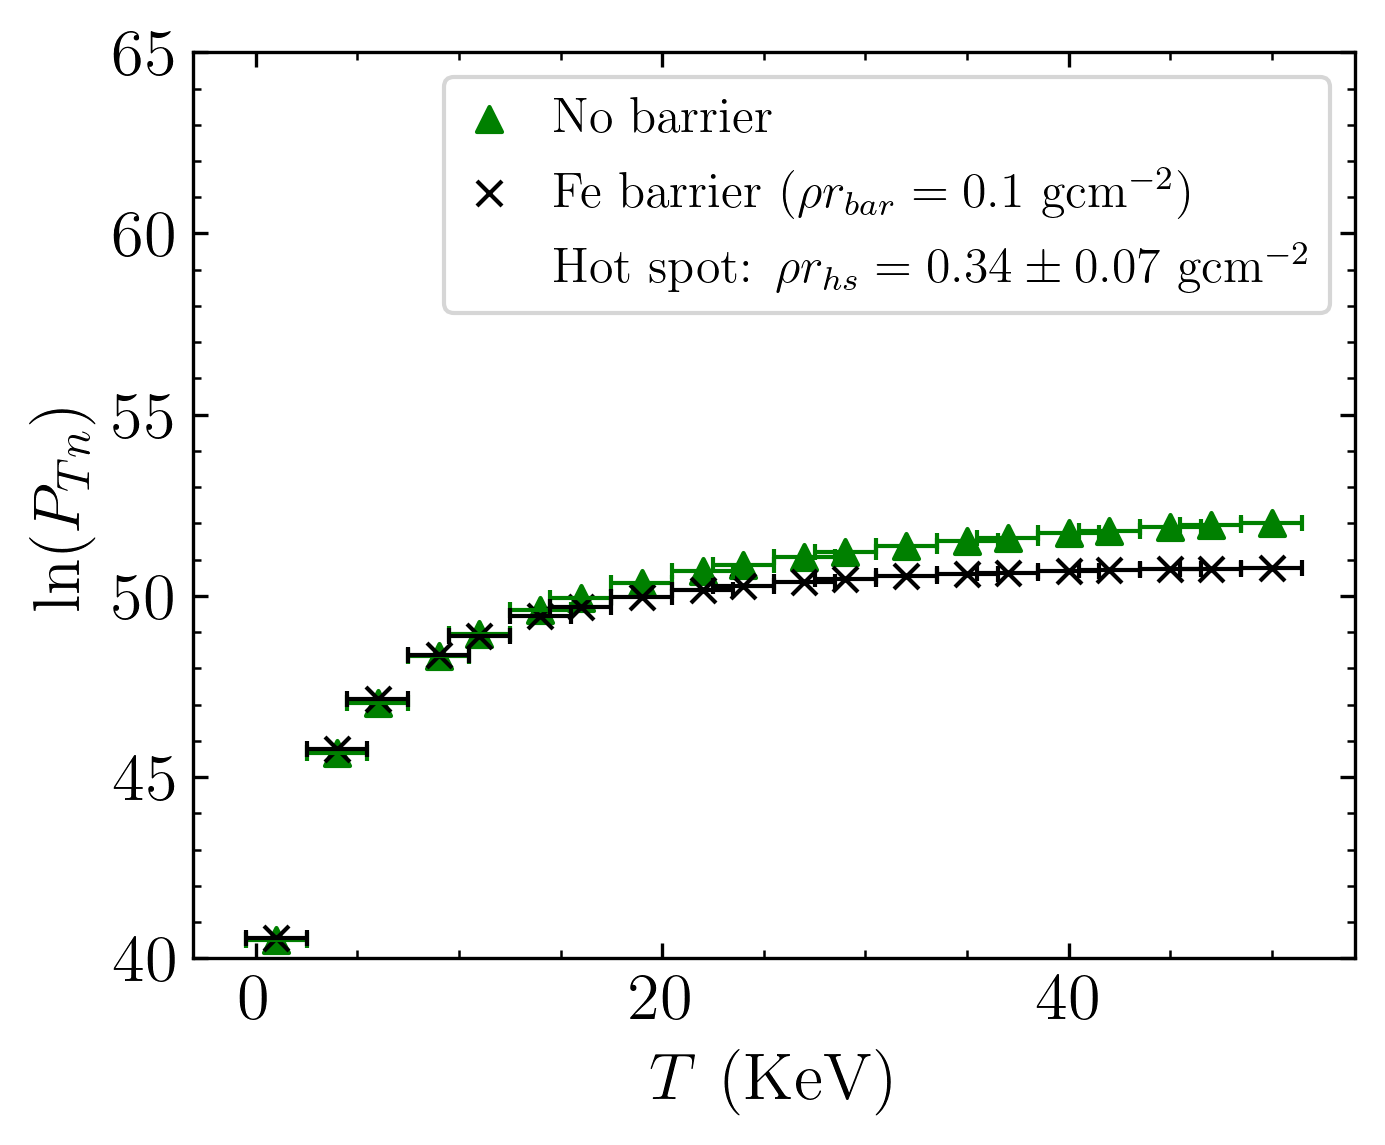
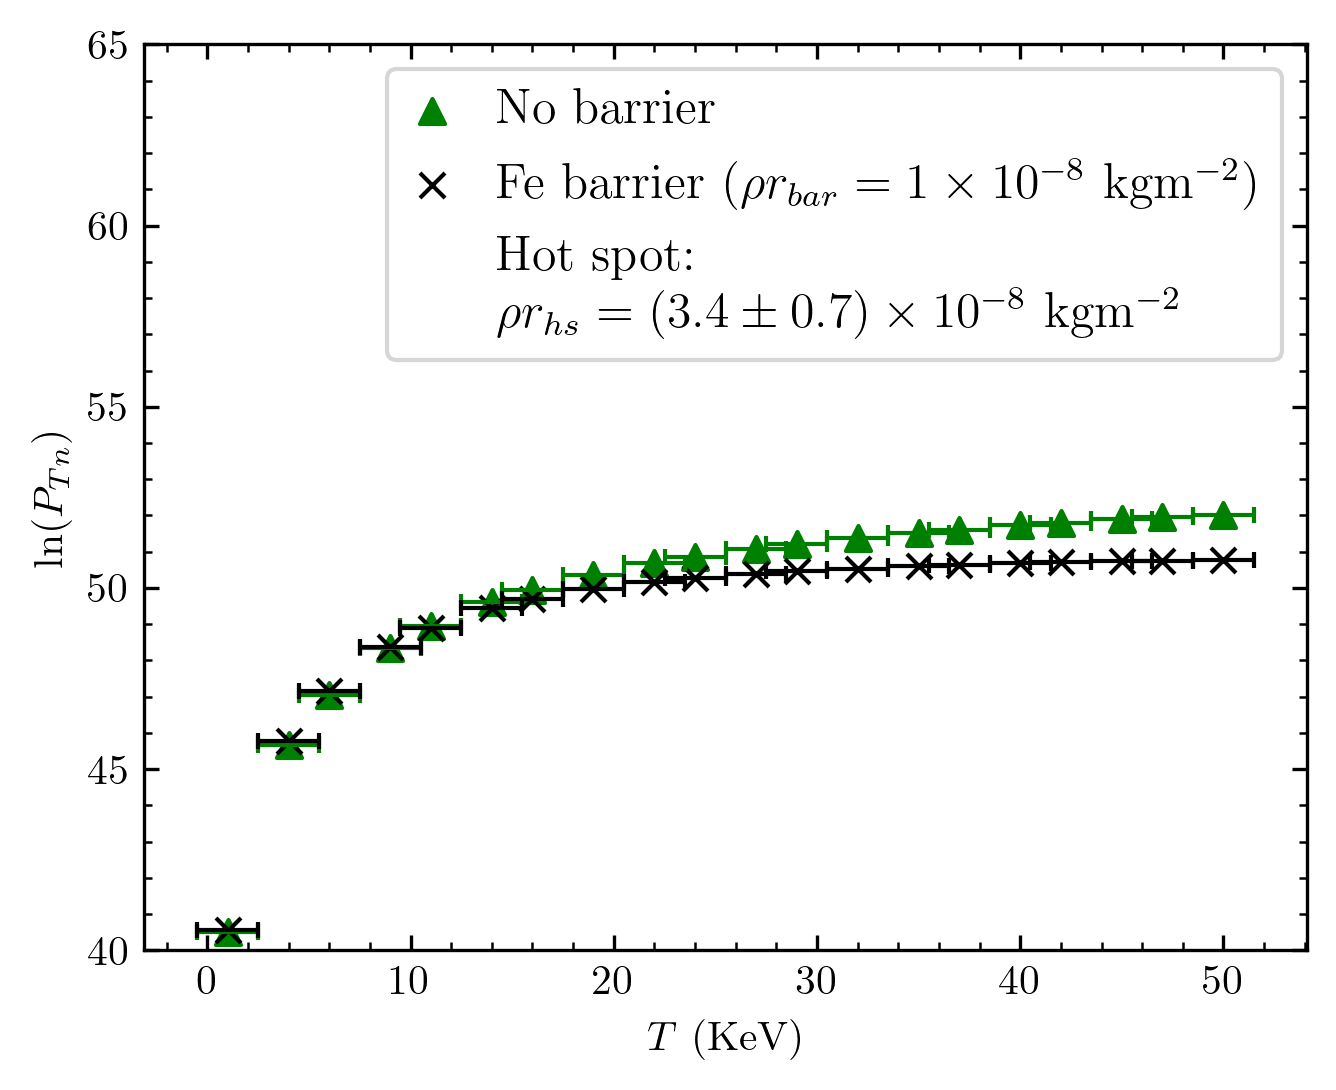
new graphs with mks units

diff --git a/Experiment/LogEagainstTgraphGen.py b/Experiment/LogEagainstTgraphGen.py
@@ -25,7 +25,7 @@ def main(path1, path2, inputFileName):
     
     #print(HsRhoR_1)
     
-    atRhoR= 1.37
+    atRhoR= 0.78
     Tslice_1 = getRhoRSlice(atRhoR, HsRhoR_1, HsT_1)
     EprodSlice_1 =getRhoRSlice(atRhoR, HsRhoR_1,TNRate_1)
     
@@ -86,7 +86,7 @@ def produceGraph(xs,ys,Xerror, hsValue):
     ax.scatter(x1,np.log(y1),marker="x",c="black",linewidth=1,label="Fe barrier ($\\rho r_{bar}=1\\times10^{-8}$ kgm$^{-2}$)")
     ax.errorbar(x1,np.log(y1),xerr=Xerror, linestyle="None",capsize=2,c="black",linewidth=1)
 
-    ax.plot([],[],' ',label="Hot spot: \n$\\rho r_{hs}=("+str(round(hsValue,2))+"\\pm 0.07)\\times 10^{-7}$ kgm$^{-2}$")
+    ax.plot([],[],' ',label="Hot spot: \n$\\rho r_{hs}=("+str(round(round(hsValue,2)*10,1))+"\\pm 0.7)\\times 10^{-8}$ kgm$^{-2}$")
  
     ax.tick_params(axis="both",which="both",direction="in",top=True, right=True)
     plt.minorticks_on()
